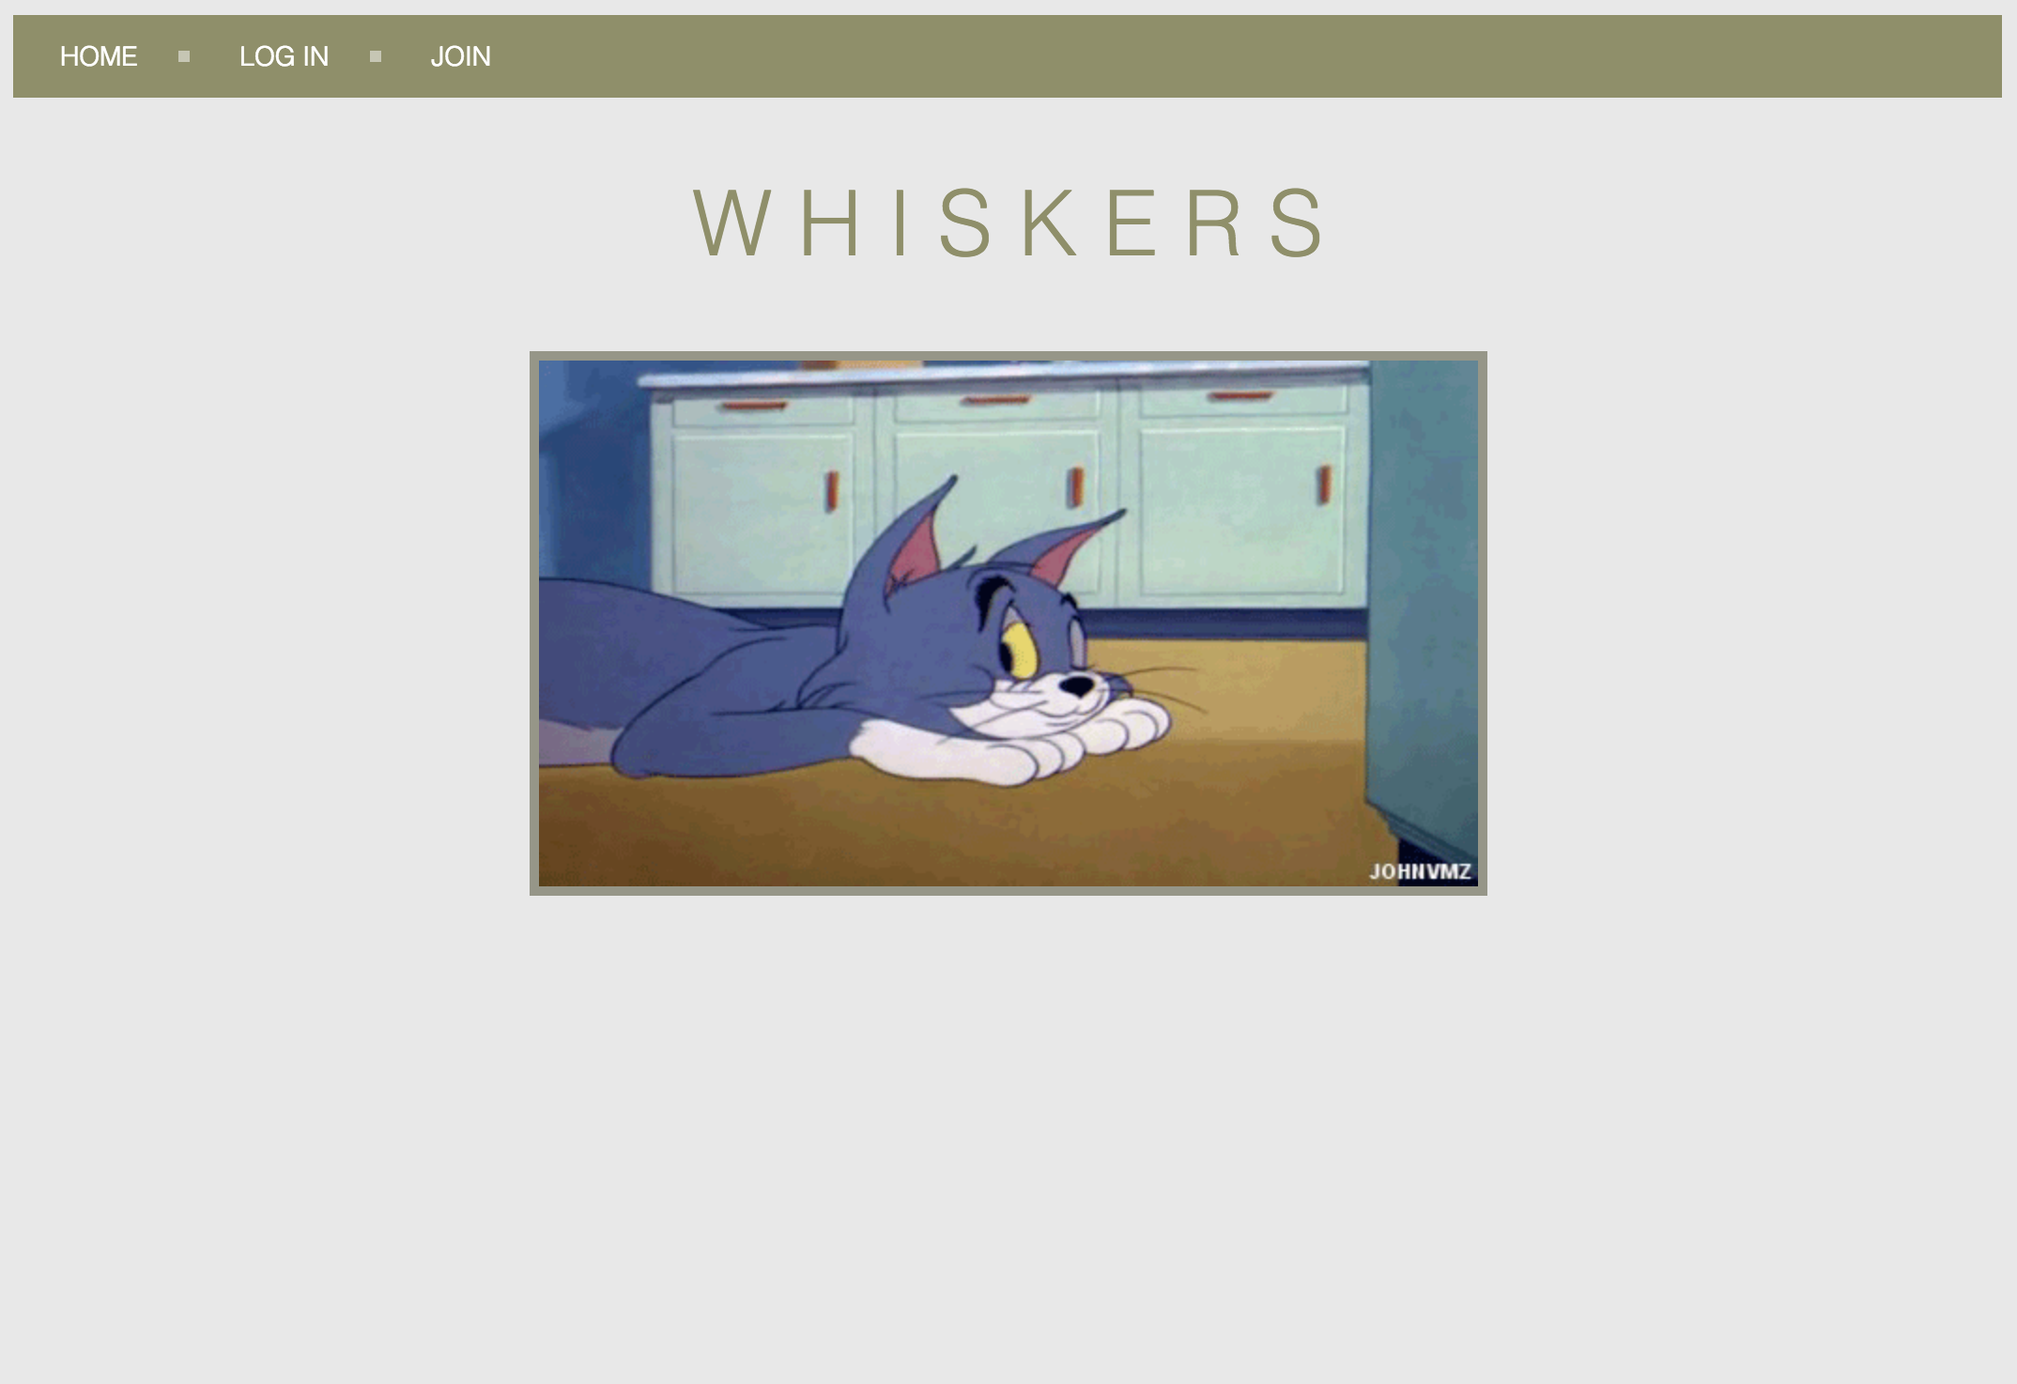
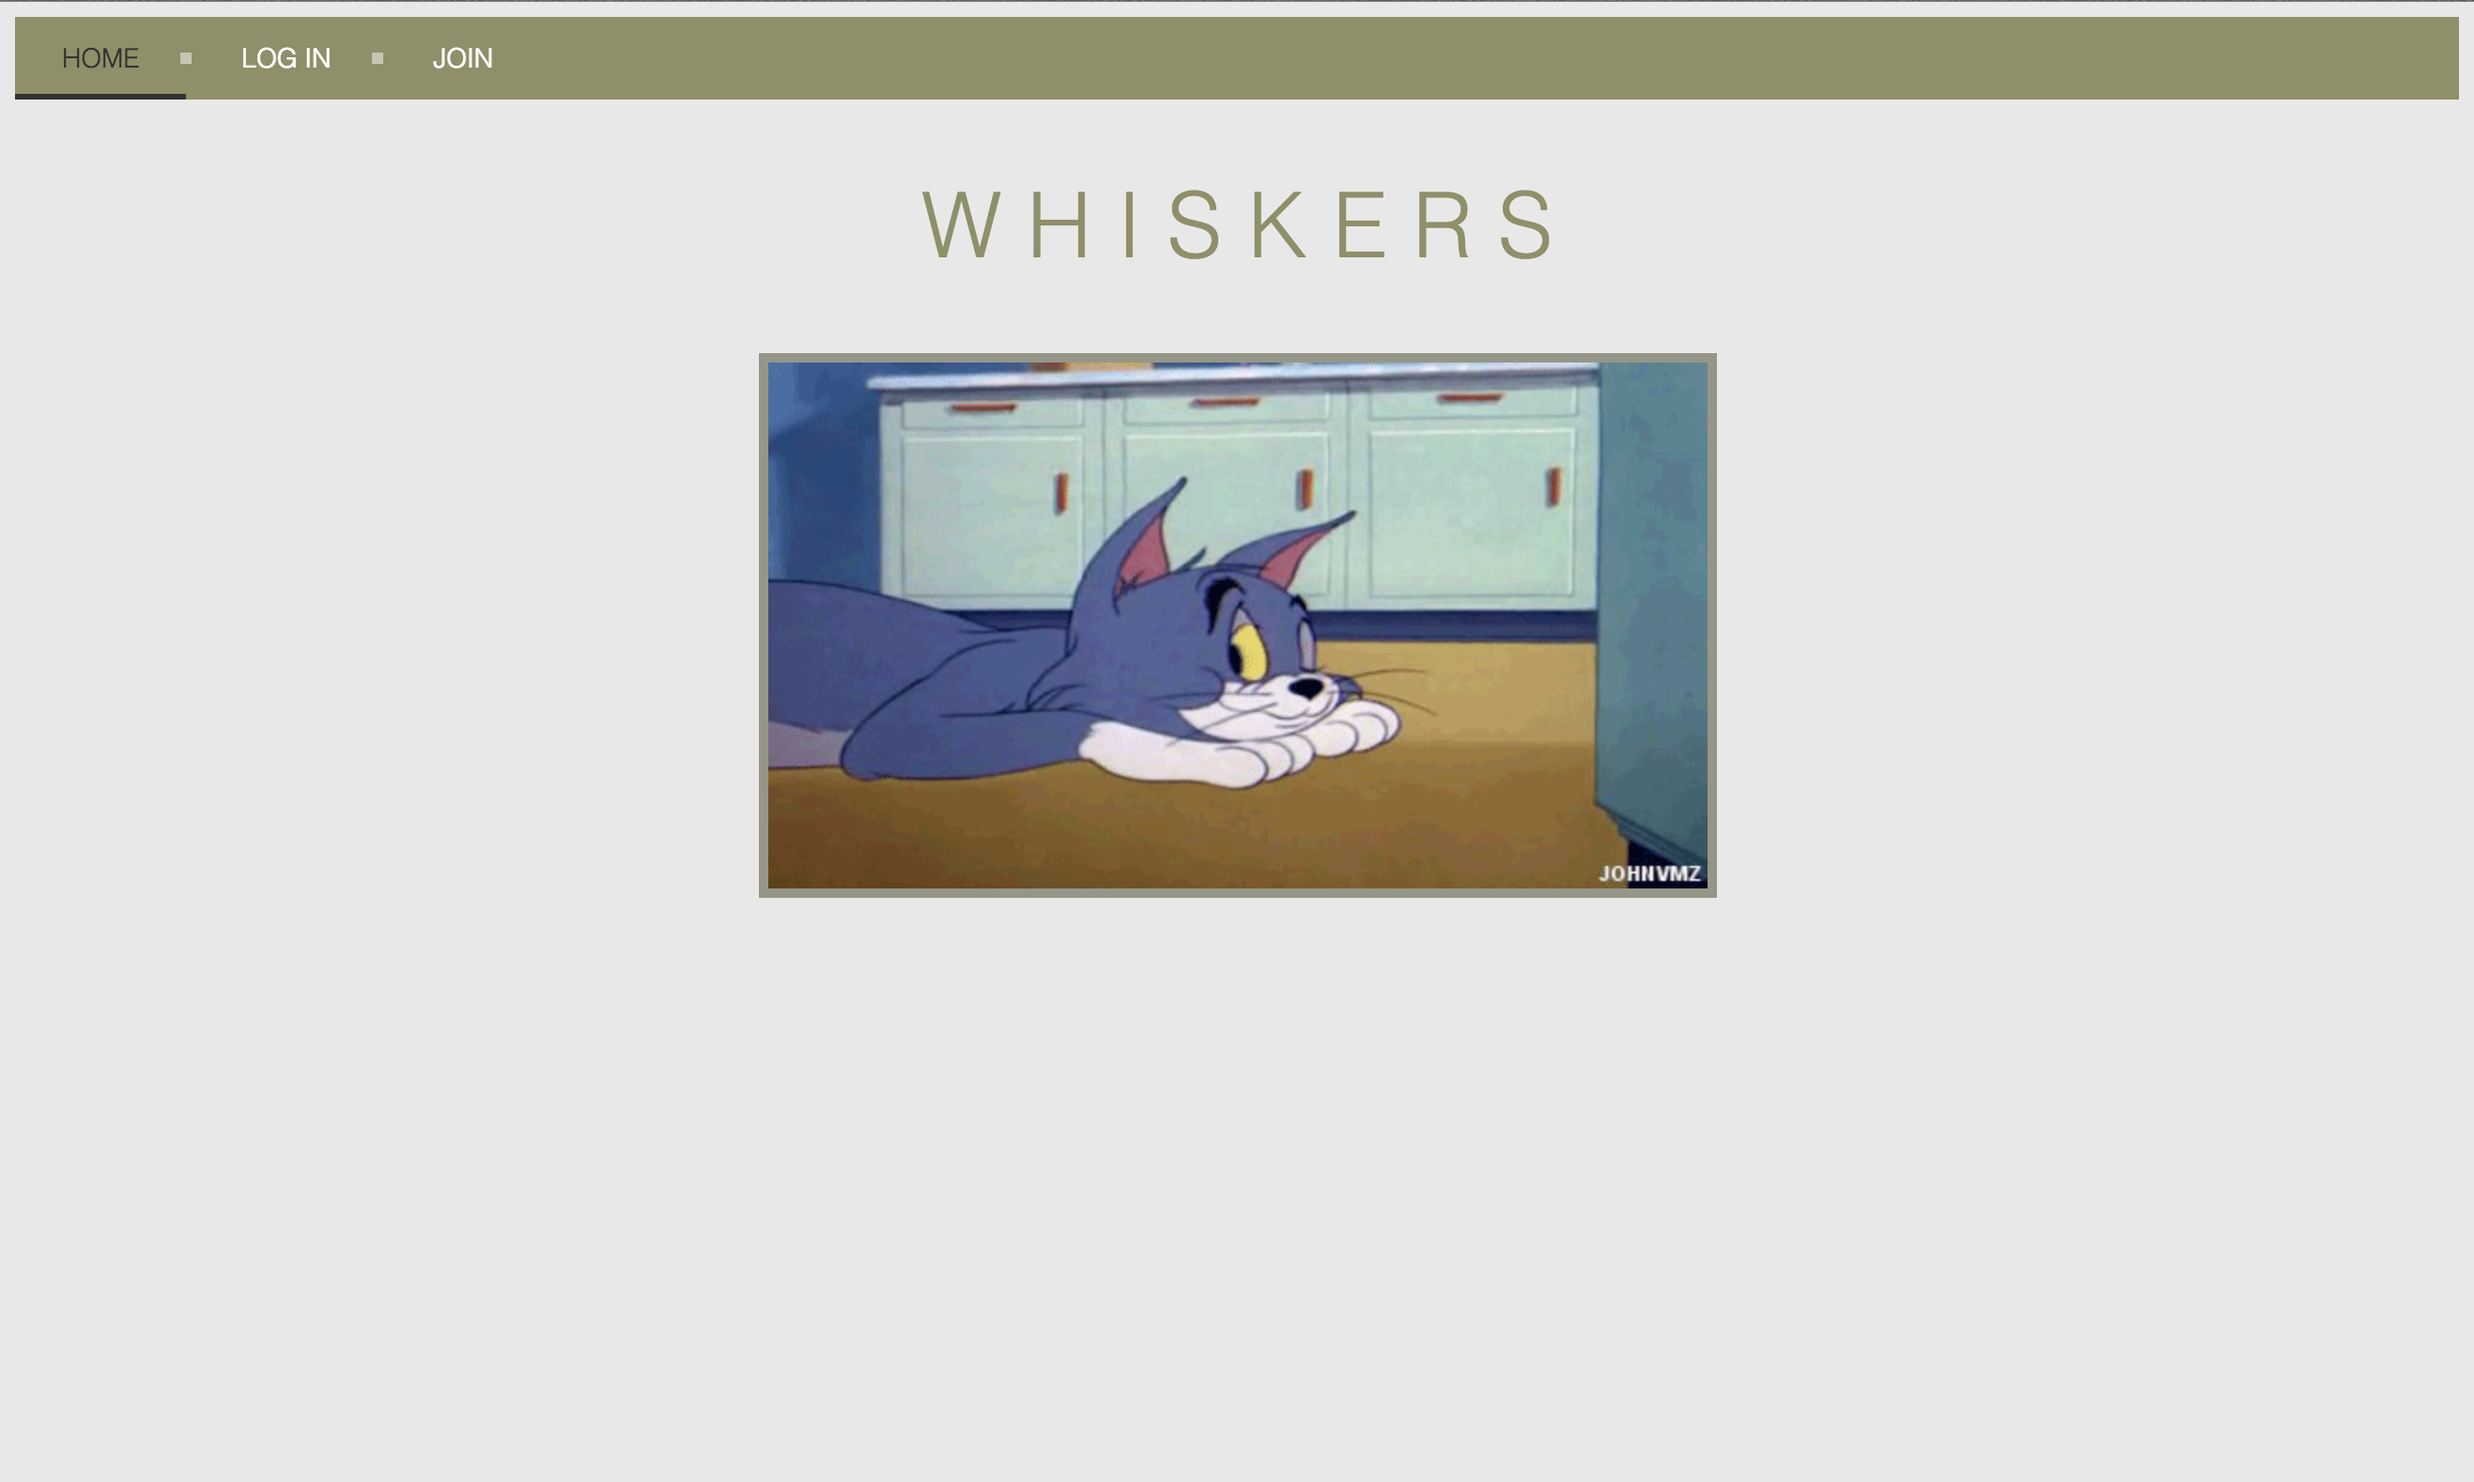
project images all same

Changed region(s): [[0.2495, 0.2185, 0.7486, 0.6554], [0.0, 0.0312, 0.9669, 0.0936], [0.3431, 0.1248, 0.655, 0.1872]]

diff --git a/app/assets/stylesheets/styles.css b/app/assets/stylesheets/styles.css
@@ -112,9 +112,7 @@ h3 {
 
 .project-img {
   width: 100%;
-}
-
-.project-img {
+  height: 320px;
   opacity: 1;
   border-radius: 7px;
 }
